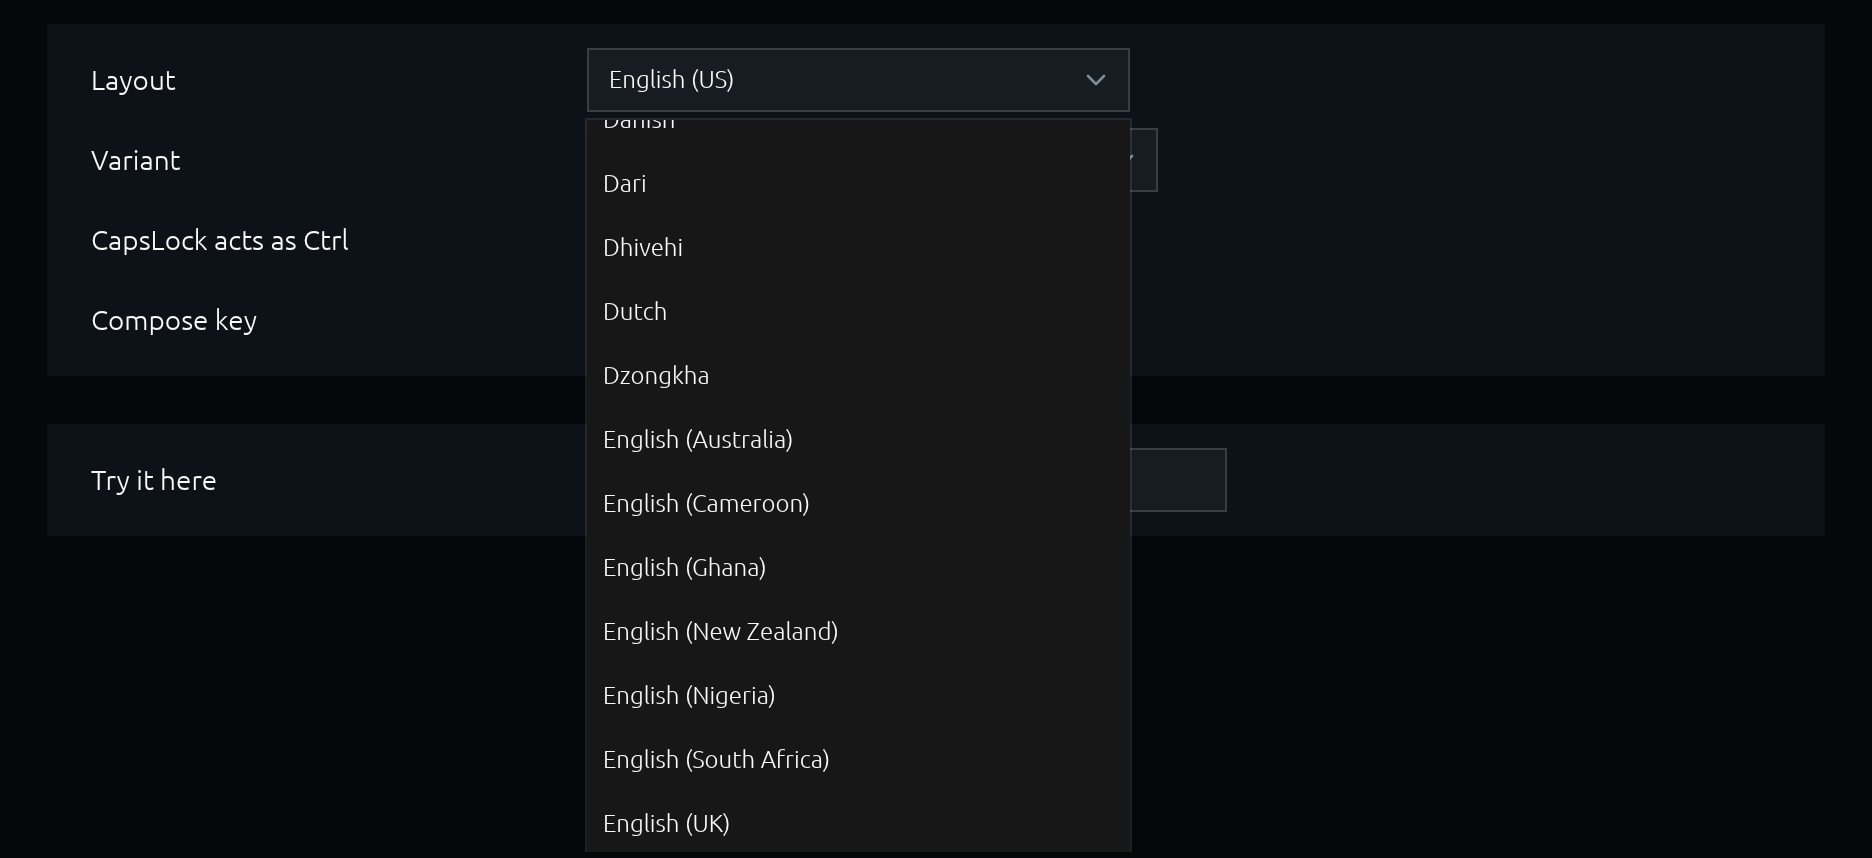
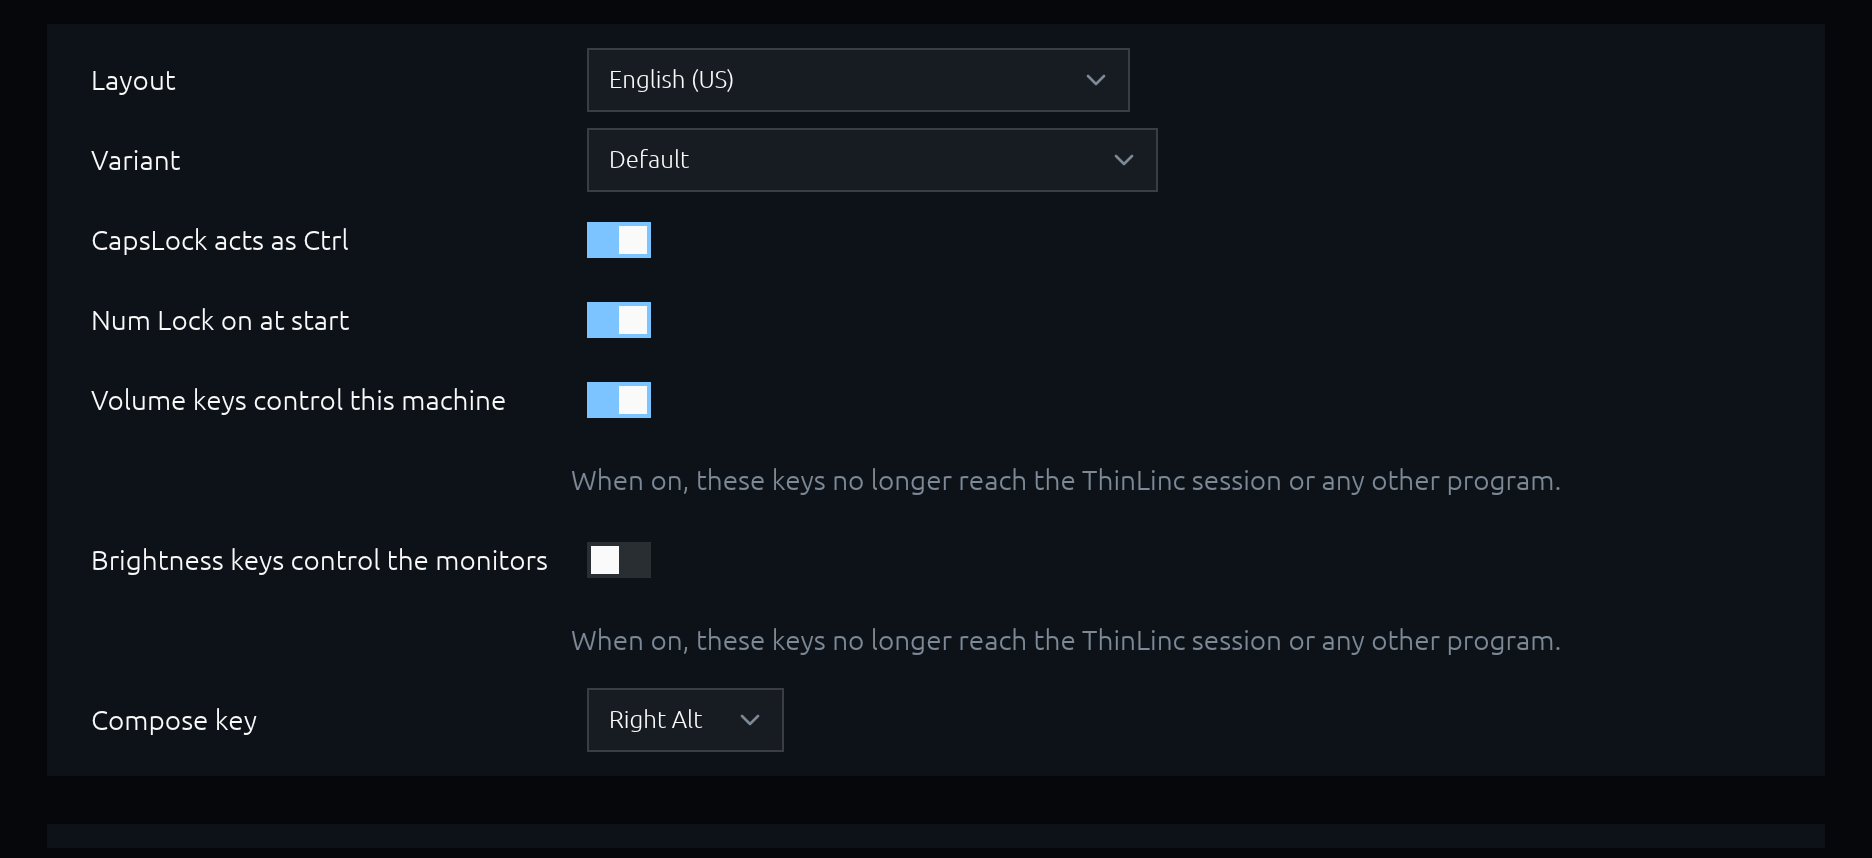
site: pictures of release 4.12.0
The menu, Packages, Keyboard, Sound and Status pictures come from the
released 4.12.0 stick image in the VM, with ThinLinc and OxuLnk
installed and a virtual USB stick (PHOTOS) plugged in, so the menu
shows the Eject tile. Sound is new; "Set the volume on this machine" is
on, so the Keyboard picture shows its twin switch on too, with the
layout list closed. Network and Screen come from shot_page_pictures.
README.md names the USB stick, the Sound step and the encoder
commands; the shot test runs with -j2.

diff --git a/site/README.md b/site/README.md
@@ -37,8 +37,8 @@ itself is not written) and gives the machine the demo model name
    OxuLnk (the VM needs the network), then click Restart so the home is
    saved to the stick. Stop the VM with `qmp.py … quit`.
 2. **Still pictures** (`img/menu.webp`, `img/menu.png`, `img/settings-packages.webp`,
-   `-keyboard`, `-status`). Boot at 2880x1920, open the Terminal tile and
-   run a script as root that
+   `-keyboard`, `-sound`, `-status`). Boot at 2880x1920, open the Terminal tile and
+   run a script as root (under `systemd-run`, so it outlives the session) that
    - stops `thinfloe-peripheral-battery.timer` and writes two demo lines to
      `/run/thinfloe/peripherals/battery` every 45 s (`MX Mechanical`, 87,
      keyboard; `MX Anywhere 3S`, 64, mouse),
@@ -51,18 +51,27 @@ itself is not written) and gives the machine the demo model name
      layout drawn twice as sharp.
 
    Then `sudo systemctl restart getty@tty1`: the new session reads the new
-   size. Wait five minutes for the graph, park the pointer in the corner
+   size. For the Eject tile, plug a small USB stick into the VM: a raw file
+   with a FAT file system (`truncate -s 256M $W/photos.img`, `mkfs.vfat -n
+   PHOTOS $W/photos.img`), added over QMP with `blockdev-add` (driver
+   `raw`, node name `photos`) and `device_add` (driver `usb-storage`,
+   drive `photos`). In Settings, Sound, switch on "Set the volume on this
+   machine" and set the slider to about two thirds; the Keyboard tab then
+   shows "Volume keys control this machine" on too. Wait five minutes for
+   the graph, park the pointer in the corner
    (`qmp.py … move 2879 1919 2880 1920`) and take the shots. The menu
    picture is the whole screen; the Settings pictures are the crop
-   `1872x858+504+432` (the Keyboard one has the layout list open and its
-   last 6 rows are background). WebP lossless; `menu.png` is the same
-   picture with 256 colours.
+   `1872x858+504+432` (for 4.12.0 the Keyboard one has the layout list
+   closed, so the key switches show). WebP lossless (`cwebp -lossless -z 9`);
+   `menu.png` is the same picture with 256 colours (`convert -dither None
+   -colors 256 PNG8:`, then `oxipng`).
 3. **Network and Screen tabs** (`img/settings-network.webp`, `-screen`).
-   The VM has no WiFi and one monitor, so these two come from the menu's
-   shot test with staged data, at the same size, scale and crop:
+   The VM has no WiFi, one monitor and no Deskflow computer, so these two
+   come from the menu's shot test with staged data (two monitors and two
+   attached computers on the Screen tab), at the same size, scale and crop:
 
        cd src/thinfloe-menu
-       TF_SHOT_DIR=$W cargo test -j4 --lib shot_page -- --ignored
+       TF_SHOT_DIR=$W cargo test -j2 --lib shot_page -- --ignored
 
 4. **Boot movie** (`boot.webm`, `boot.mp4`, `img/boot-poster.webp`). Boot
    at 1440x960 and record from power-on:
